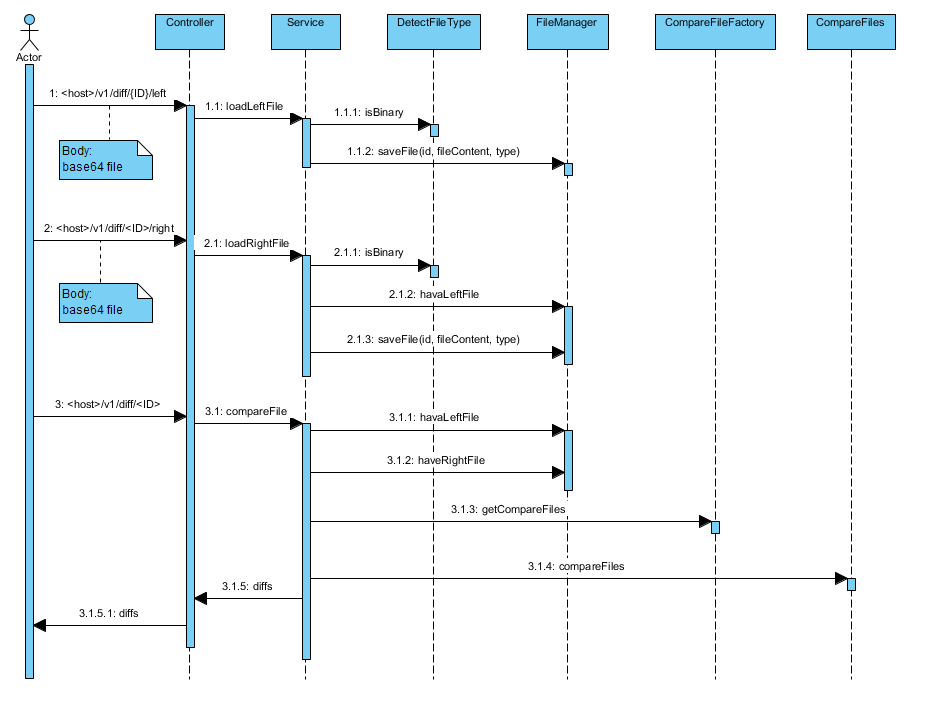
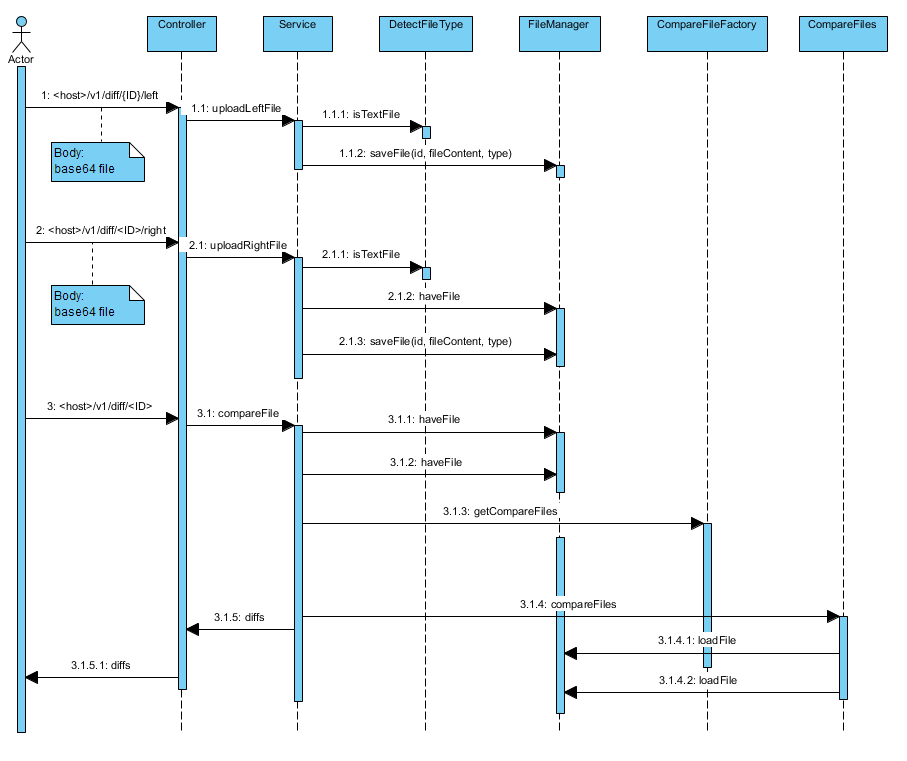
Creating basic stuffs. Following the sequence diagram - doc folder

diff --git a/src/main/java/br/com/luismunhoz/exception/RestExceptionHandler.java b/src/main/java/br/com/luismunhoz/exception/RestExceptionHandler.java
@@ -1,0 +1,30 @@
+package br.com.luismunhoz.exception;
+
+import java.time.LocalDateTime;
+
+import org.springframework.http.HttpStatus;
+import org.springframework.http.ResponseEntity;
+import org.springframework.web.bind.annotation.ControllerAdvice;
+import org.springframework.web.bind.annotation.ExceptionHandler;
+import org.springframework.web.bind.annotation.RestController;
+import org.springframework.web.context.request.WebRequest;
+
+@ControllerAdvice
+@RestController
+public class RestExceptionHandler {
+
+	@ExceptionHandler(FileTypeException.class)
+	public final ResponseEntity<ErrorDetails> handleEntityNotFoundException(FileTypeException ex, WebRequest request) {
+	  ErrorDetails errorDetails = new ErrorDetails(LocalDateTime.now(), ex.getMessage(),
+	      request.getDescription(false));
+	  return new ResponseEntity<>(errorDetails, HttpStatus.NOT_FOUND);
+	}
+	
+	@ExceptionHandler(Exception.class)
+	public final ResponseEntity<ErrorDetails> handleAllExceptions(Exception ex, WebRequest request) {
+	  ErrorDetails errorDetails = new ErrorDetails(LocalDateTime.now(), ex.getMessage(),
+	      request.getDescription(false));
+	  return new ResponseEntity<>(errorDetails, HttpStatus.INTERNAL_SERVER_ERROR);
+	}
+	
+}

diff --git a/src/main/java/br/com/luismunhoz/exception/ErrorDetails.java b/src/main/java/br/com/luismunhoz/exception/ErrorDetails.java
@@ -1,0 +1,43 @@
+package br.com.luismunhoz.exception;
+
+import java.time.LocalDateTime;
+
+import com.fasterxml.jackson.annotation.JsonFormat;
+
+public class ErrorDetails {
+	  @JsonFormat(shape = JsonFormat.Shape.STRING, pattern = "dd-MM-yyyy hh:mm:ss")
+	  private LocalDateTime timestamp;
+	  private String message;
+	  private String details;
+
+	  public ErrorDetails(LocalDateTime localDateTime, String message, String details) {
+	    super();
+	    this.timestamp = localDateTime;
+	    this.message = message;
+	    this.details = details;
+	  }
+
+	public LocalDateTime getTimestamp() {
+		return timestamp;
+	}
+
+	public void setTimestamp(LocalDateTime timestamp) {
+		this.timestamp = timestamp;
+	}
+
+	public String getMessage() {
+		return message;
+	}
+
+	public void setMessage(String message) {
+		this.message = message;
+	}
+
+	public String getDetails() {
+		return details;
+	}
+
+	public void setDetails(String details) {
+		this.details = details;
+	}
+}

diff --git a/src/main/java/br/com/luismunhoz/config/SwaggerConfig.java b/src/main/java/br/com/luismunhoz/config/SwaggerConfig.java
@@ -1,0 +1,23 @@
+package br.com.luismunhoz.config;
+
+import org.springframework.context.annotation.Bean;
+import org.springframework.context.annotation.Configuration;
+
+import springfox.documentation.builders.PathSelectors;
+import springfox.documentation.builders.RequestHandlerSelectors;
+import springfox.documentation.spi.DocumentationType;
+import springfox.documentation.spring.web.plugins.Docket;
+import springfox.documentation.swagger2.annotations.EnableSwagger2;
+
+@Configuration
+@EnableSwagger2
+public class SwaggerConfig {                                    
+    @Bean
+    public Docket api() { 
+        return new Docket(DocumentationType.SWAGGER_2)  
+          .select()                                  
+          .apis(RequestHandlerSelectors.any())              
+          .paths(PathSelectors.any())                          
+          .build();                                           
+    }
+}

diff --git a/src/main/java/br/com/luismunhoz/util/FileManager.java b/src/main/java/br/com/luismunhoz/util/FileManager.java
@@ -1,0 +1,15 @@
+package br.com.luismunhoz.util;
+
+import java.io.BufferedInputStream;
+
+import br.com.luismunhoz.exception.FileException;
+
+public interface FileManager {
+	
+	BufferedInputStream loadFile(String path);
+	
+	void saveFile(String path, byte[] data, String extension) throws FileException;
+	
+	Boolean haveFile(String path) throws FileException;
+
+}

diff --git a/src/main/java/br/com/luismunhoz/model/File.java b/src/main/java/br/com/luismunhoz/model/File.java
@@ -1,0 +1,18 @@
+package br.com.luismunhoz.model;
+
+public class File {
+	
+	private String fileContent;
+
+	public String getFileContent() {
+		return fileContent;
+	}
+	public void setFileContent(String fileContent) {
+		this.fileContent = fileContent;
+	}
+	@Override
+	public String toString() {
+		return "File [fileContent=" + fileContent + "]";
+	}
+
+}

diff --git a/src/main/java/br/com/luismunhoz/exception/FileTypeException.java b/src/main/java/br/com/luismunhoz/exception/FileTypeException.java
@@ -1,0 +1,11 @@
+package br.com.luismunhoz.exception;
+
+public class FileTypeException extends RuntimeException{
+
+	private static final long serialVersionUID = 1L;
+	
+	public FileTypeException(String message, Exception e) {
+		super(message, e);
+	}
+
+}

diff --git a/src/main/java/br/com/luismunhoz/util/FileCompare.java b/src/main/java/br/com/luismunhoz/util/FileCompare.java
@@ -1,0 +1,10 @@
+package br.com.luismunhoz.util;
+
+import br.com.luismunhoz.exception.FileException;
+import br.com.luismunhoz.model.FileDifference;
+
+public interface FileCompare {
+	
+	public FileDifference Compare(long id) throws FileException;
+
+}

diff --git a/src/main/java/br/com/luismunhoz/exception/FileException.java b/src/main/java/br/com/luismunhoz/exception/FileException.java
@@ -1,0 +1,11 @@
+package br.com.luismunhoz.exception;
+
+public class FileException extends RuntimeException{
+
+	private static final long serialVersionUID = 1L;
+	
+	public FileException(String message, Exception e) {
+		super(message, e);
+	}
+
+}

diff --git a/src/main/java/br/com/luismunhoz/util/DetectFileType.java b/src/main/java/br/com/luismunhoz/util/DetectFileType.java
@@ -1,0 +1,9 @@
+package br.com.luismunhoz.util;
+
+import br.com.luismunhoz.exception.FileTypeException;
+
+public interface DetectFileType {
+	
+	public Boolean isTextFile(byte[] fileContent) throws FileTypeException;
+
+}

diff --git a/src/main/java/br/com/luismunhoz/util/FileCompareFactory.java b/src/main/java/br/com/luismunhoz/util/FileCompareFactory.java
@@ -1,0 +1,5 @@
+package br.com.luismunhoz.util;
+
+public class FileCompareFactory {
+
+}

diff --git a/src/main/java/br/com/luismunhoz/model/FileDifference.java b/src/main/java/br/com/luismunhoz/model/FileDifference.java
@@ -1,0 +1,5 @@
+package br.com.luismunhoz.model;
+
+public class FileDifference {
+
+}
